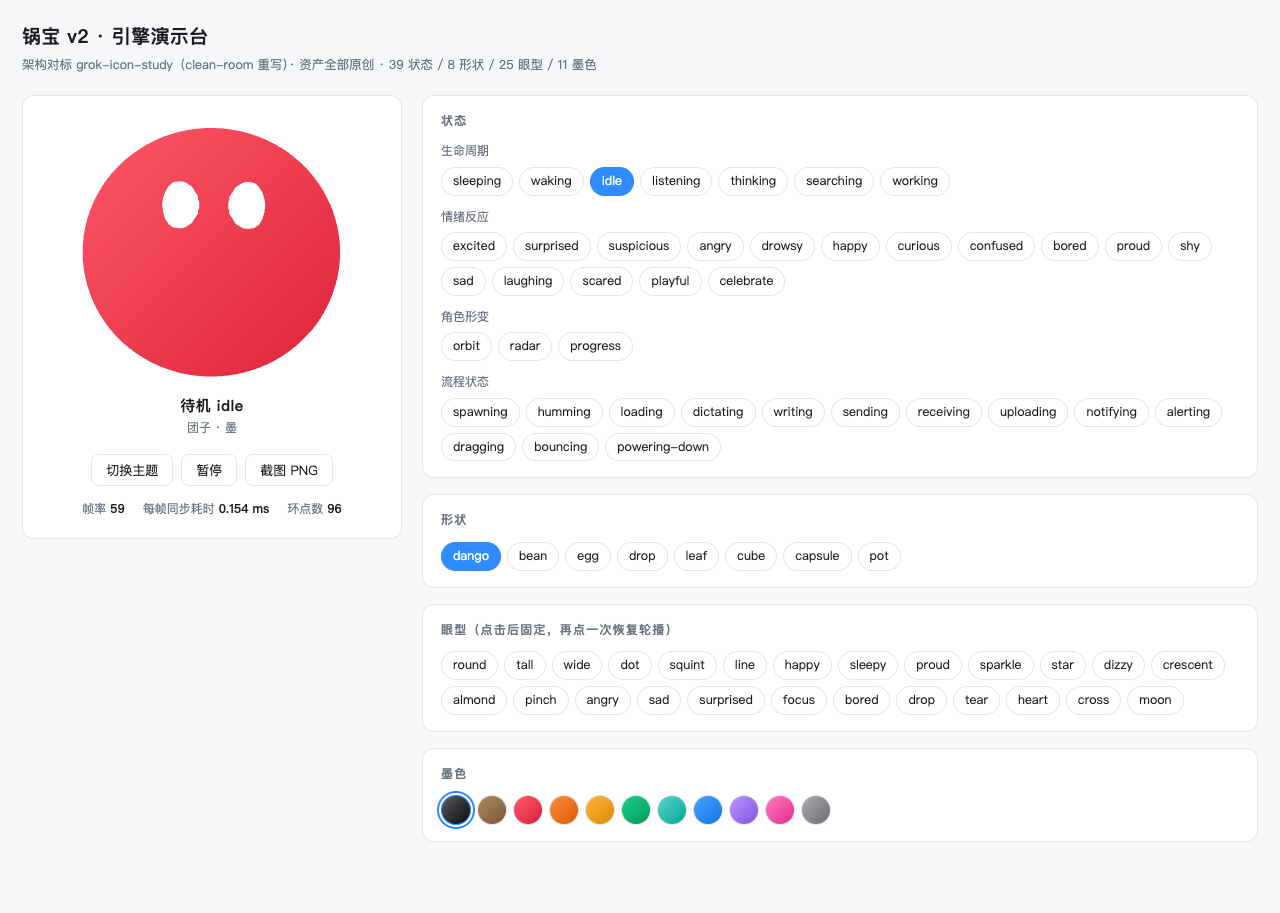
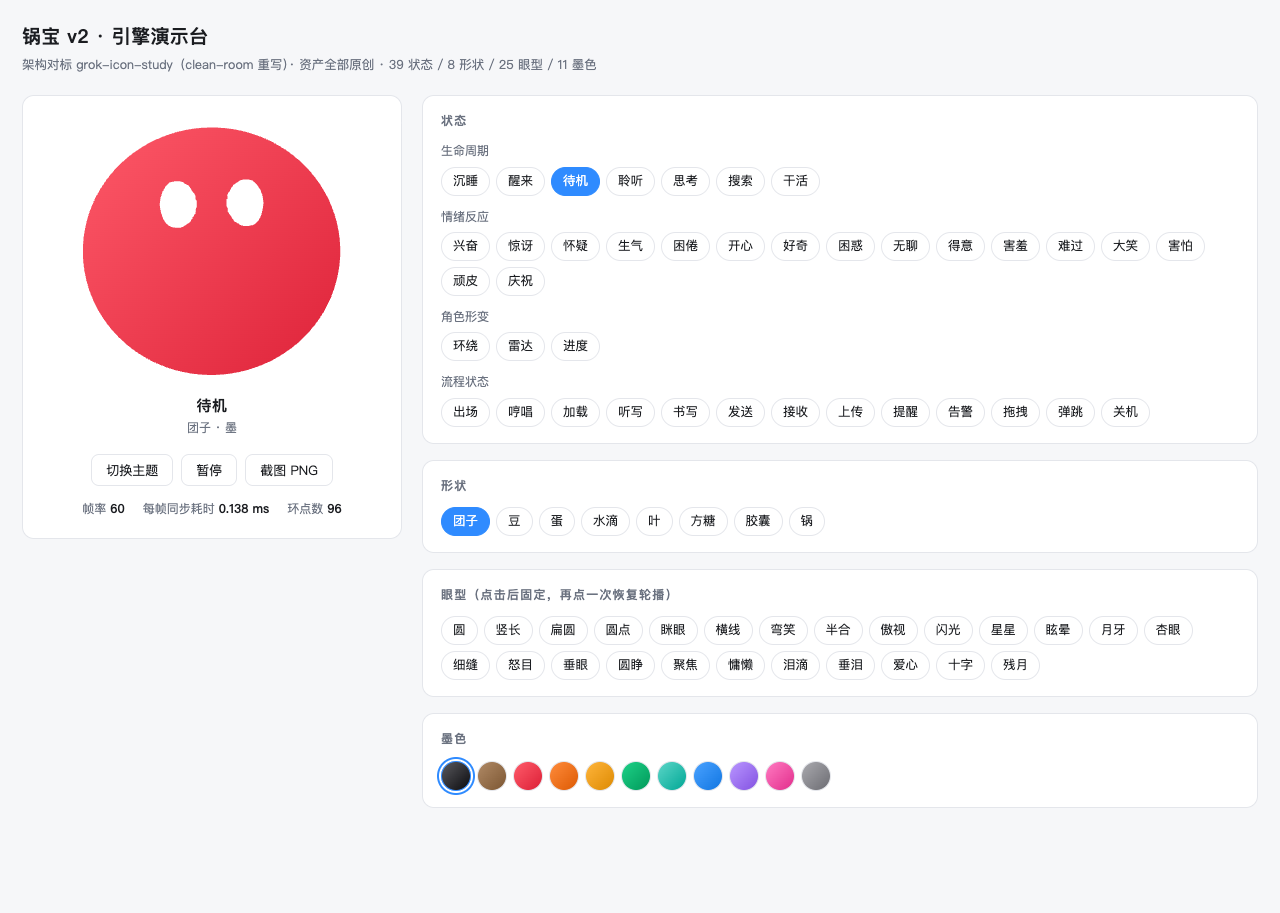
feat(ui): 锅宝挂件按钮文案全中文 + 去掉眼睛抖动
① 按钮英文 → 引擎补中文标签表（83 项，与名称列表一一对应、零重复）
- art.js: SHAPE_LABELS(8) / EYE_LABELS(25)；pose.js: STATE_LABELS(39)
- 从 index.js 导出，mascot.js 兼容入口同步转发
- demo.html / sheet.html 改为查表；only= 同时接受英文 id 与中文名
- 命名区分：眼型 drop=泪滴 vs 形状 drop=水滴；crescent=月牙 vs moon=残月
- 修掉一个真坑：眼型高亮原先比 textContent，改中文后会全灭 → 改用 dataset.id
- 11 个纯色圆点补 aria-label（此前屏幕阅读器读不出来）

② 眼睛抖动 → 删掉 _paint 里的高频「微颤」
- 原代码用 now（毫秒）驱动 sin(now*0.042) 与 sin(now*0.058)，
  周期 ≈150ms/≈108ms（6.7Hz/9.2Hz），振幅 1.4/0.9，左右眼还差一个相位
- 它还被下游放大：纵向抖 → vl → liveSpan → 横向夹取区间跳 → 眼睛整块位移
- 保留视线弹簧与指针跟随（活感来源），实测抖动位移 2.85 → 0

③ verify.mjs 30 → 35 条，新增 5 条回归断言
- 文案全中文（77 个）/ 墨色圆点有中文 aria-label / 接触表标题走标签表
- 抖动检测有效（body 确实在动，防 rAF 节流导致空转通过）
- 眼睛不抖动（方向反转次数 ≤1）
⚠ 抖动断言第一版判据写错：「总位移 < 0.2」实测会抖 —— 同一份代码套件内 dy=0、
  单独跑 dy=0.3，差的是形变弹簧的单调收敛残余。改用方向反转次数（0 vs 8，差一个数量级），
  并做注入对照证明护栏不是恒绿（注回微颤 → 反转 4 次 / 位移 2.85，随后还原并字节比对）

验证：verify.mjs 35/35 · verify-plugin.mjs 37/37（真实 Express 应用）
收尾：端口已释放 · 无头 Chrome 0 · 真实库 checksum 与跑前一致

diff --git a/拼好家内容创作中心/tools/mascot-verify/demo.html b/拼好家内容创作中心/tools/mascot-verify/demo.html
@@ -89,7 +89,7 @@
   <div class="layout" data-page-node-id="MTRuOF9J2udMlTxig6tuVV">
     <div class="stage" data-page-node-id="m7wCLBNABcuGTmRe8NYs9C">
       <div class="stage-inner" id="stage" data-page-node-id="0Bqdo6BJmSmEMCEEK3NYgD"></div>
-      <div class="stage-label" id="label" data-page-node-id="Z2nrGLLp87Sy4nKurqpJmb">待机 idle</div>
+      <div class="stage-label" id="label" data-page-node-id="Z2nrGLLp87Sy4nKurqpJmb">待机</div>
       <div class="stage-meta" id="meta" data-page-node-id="k0wg2PWwGAIUscVjHpF2Cw">团子 · 墨</div>
       <div class="stage-row" data-page-node-id="bnTobCg3j27KRsNvAOFyc2">
         <button class="act" id="btnTheme" data-page-node-id="WZcqNHigUwoLmX15oS47wC">切换主题</button>
@@ -129,10 +129,15 @@
 <script type="module">
 /* 直接引用 public/ 下已提交的引擎 —— 不在这里放第二份副本，
    否则引擎一改、演示台还跑旧代码，两边就漂移了。 */
-import { createMascot, GROUPS, SHAPE_NAMES, EYE_NAMES, INK_NAMES, INK } from "../../public/js/components/mascot/index.js";
+import { createMascot, GROUPS, SHAPE_NAMES, SHAPE_LABELS, EYE_NAMES, EYE_LABELS,
+  STATE_LABELS, INK_NAMES, INK } from "../../public/js/components/mascot/index.js";
 
 const stage = document.getElementById("stage");
 const mascot = createMascot(stage, { state: "idle", shape: "dango", ink: "ink" });
+
+/* 按钮上一律印中文：英文 id 只作为「值」用（setState/setShape 的参数、dataset 里的键），
+   不作为「字」。标签表来自引擎，见 index.js 的导出说明。 */
+const L = (map, id) => map[id] || id;   // 表里万一缺项，退回 id 而不是渲染出 undefined
 
 /* ── 状态按钮 ── */
 const sg = document.getElementById("stateGroups");
@@ -146,13 +151,14 @@ for (const g of GROUPS) {
   for (const s of g.states) {
     const b = document.createElement("button");
     b.className = "chip";
-    b.textContent = s;
+    b.dataset.id = s;                      // 真实值放 dataset，文案放 textContent
+    b.textContent = L(STATE_LABELS, s);
     b.setAttribute("aria-pressed", String(s === "idle"));
     b.onclick = () => {
       mascot.setState(s);
       for (const o of sg.querySelectorAll(".chip")) o.setAttribute("aria-pressed", "false");
       b.setAttribute("aria-pressed", "true");
-      document.getElementById("label").textContent = s;
+      document.getElementById("label").textContent = L(STATE_LABELS, s);
     };
     box.appendChild(b);
   }
@@ -164,7 +170,8 @@ const sh = document.getElementById("shapes");
 for (const n of SHAPE_NAMES) {
   const b = document.createElement("button");
   b.className = "chip";
-  b.textContent = n;
+  b.dataset.id = n;
+  b.textContent = L(SHAPE_LABELS, n);
   b.setAttribute("aria-pressed", String(n === "dango"));
   b.onclick = () => {
     mascot.setShape(n);
@@ -181,7 +188,8 @@ let eyeOn = null;
 for (const n of EYE_NAMES) {
   const b = document.createElement("button");
   b.className = "chip";
-  b.textContent = n;
+  b.dataset.id = n;
+  b.textContent = L(EYE_LABELS, n);
   b.onclick = () => {
     if (eyeOn === n) {
       eyeOn = null;
@@ -190,7 +198,11 @@ for (const n of EYE_NAMES) {
       eyeOn = n;
       mascot.setEye(n);
     }
-    for (const o of ey.querySelectorAll(".chip")) o.setAttribute("aria-pressed", String(o.textContent === eyeOn));
+    /* ⚠ 高亮比对必须走 dataset.id，不能拿 textContent 比 ——
+       文案改成中文后，textContent 与 id 不再相等，比了会全灭。 */
+    for (const o of ey.querySelectorAll(".chip")) {
+      o.setAttribute("aria-pressed", String(o.dataset.id === eyeOn));
+    }
   };
   ey.appendChild(b);
 }
@@ -200,7 +212,9 @@ const ik = document.getElementById("inks");
 for (const n of INK_NAMES) {
   const b = document.createElement("button");
   b.className = "chip swatch";
+  b.dataset.id = n;
   b.title = INK[n].label;
+  b.setAttribute("aria-label", `墨色：${INK[n].label}`);   // 纯色圆点没有文字，靠 aria-label 可读
   b.style.background = `linear-gradient(135deg, ${INK[n].lightFrom}, ${INK[n].lightTo})`;
   b.setAttribute("aria-pressed", String(n === "ink"));
   b.onclick = () => {
@@ -213,7 +227,8 @@ for (const n of INK_NAMES) {
 }
 
 function updateMeta() {
-  document.getElementById("meta").textContent = `${mascot.shape} · ${mascot.ink}`;
+  document.getElementById("meta").textContent =
+    `${L(SHAPE_LABELS, mascot.shape)} · ${INK[mascot.ink]?.label || mascot.ink}`;
 }
 
 /* ── 工具按钮 ── */

diff --git a/拼好家内容创作中心/tools/mascot-verify/sheet.html b/拼好家内容创作中心/tools/mascot-verify/sheet.html
@@ -26,15 +26,17 @@
 <div id="root"></div>
 <script type="module">
 /* 直接引用 public/ 下已提交的引擎 —— 不在这里放第二份副本，避免两边漂移。 */
-import { createMascot, GROUPS, SHAPE_NAMES, EYE_NAMES, INK_NAMES, INK } from "../../public/js/components/mascot/index.js";
+import { createMascot, GROUPS, SHAPE_NAMES, SHAPE_LABELS, EYE_NAMES, EYE_LABELS,
+  STATE_LABELS, INK_NAMES, INK } from "../../public/js/components/mascot/index.js";
 
 /* ?cell=200&only=excited,playful   → 放大单看某几个状态（排查视觉问题用）
    only 对状态 / 形状 / 眼型 三组都生效：命中的那几组才渲染，组内只留命中的项。
-   例：?cell=300&only=pot,capsule   → 放大对比锅和胶囊（排查「两个形状看起来一样」用） */
+   例：?cell=300&only=pot,capsule   → 放大对比锅和胶囊（排查「两个形状看起来一样」用）
+   ⚠ only 同时接受**英文 id 与中文名**：卡片上现在印中文，用户会照着中文抄。 */
 const q = new URLSearchParams(location.search);
 if (q.get("cell")) document.documentElement.style.setProperty("--cell", q.get("cell") + "px");
 const ONLY = (q.get("only") || "").split(",").map((s) => s.trim()).filter(Boolean);
-const hit = (n) => !ONLY.length || ONLY.includes(n);
+const hit = (id, label) => !ONLY.length || ONLY.includes(id) || ONLY.includes(label);
 
 const root = document.getElementById("root");
 const instances = [];
@@ -63,22 +65,22 @@ function cell(grid, cap) {
 
 /* 全部 39 个状态 */
 for (const g of GROUPS) {
-  const list = g.states.filter(hit);
+  const list = g.states.filter((s) => hit(s, STATE_LABELS[s]));
   if (!list.length) continue;
   const grid = section("状态 · " + g.label);
   for (const s of list) {
-    const box = cell(grid, s);
+    const box = cell(grid, STATE_LABELS[s] || s);
     instances.push(createMascot(box, { state: s, shape: "dango", ink: "ink" }));
   }
 }
 
 /* 8 个形状（都用 idle 态） */
 {
-  const list = SHAPE_NAMES.filter(hit);
+  const list = SHAPE_NAMES.filter((n) => hit(n, SHAPE_LABELS[n]));
   if (list.length) {
     const grid = section("形状");
     for (const n of list) {
-      const box = cell(grid, n);
+      const box = cell(grid, SHAPE_LABELS[n] || n);
       instances.push(createMascot(box, { state: "idle", shape: n, ink: "ink" }));
     }
   }
@@ -86,11 +88,11 @@ for (const g of GROUPS) {
 
 /* 25 个眼型（固定住） */
 {
-  const list = EYE_NAMES.filter(hit);
+  const list = EYE_NAMES.filter((n) => hit(n, EYE_LABELS[n]));
   if (list.length) {
     const grid = section("眼型");
     for (const n of list) {
-      const box = cell(grid, n);
+      const box = cell(grid, EYE_LABELS[n] || n);
       instances.push(createMascot(box, { state: "idle", shape: "dango", ink: "ink", eye: n }));
     }
   }
@@ -98,7 +100,7 @@ for (const g of GROUPS) {
 
 /* 11 个墨色 */
 {
-  const list = INK_NAMES.filter(hit);
+  const list = INK_NAMES.filter((n) => hit(n, INK[n].label));
   if (list.length) {
     const grid = section("墨色");
     for (const n of list) {

diff --git a/拼好家内容创作中心/public/js/components/mascot/art.js b/拼好家内容创作中心/public/js/components/mascot/art.js
@@ -174,6 +174,12 @@ for (const [name, def] of Object.entries(SHAPE_DEF)) {
 
 export const SHAPE_NAMES = Object.keys(SHAPES);
 
+/* 形状中文名 —— 与 SHAPE_NAMES 一一对应（界面按钮文案的单一事实来源） */
+export const SHAPE_LABELS = {
+  dango: "团子", bean: "豆", egg: "蛋", drop: "水滴",
+  leaf: "叶", cube: "方糖", capsule: "胶囊", pot: "锅",
+};
+
 /* 形状显示体量补偿：环实际只占 229/259，乘 VIEW_SCALE 才刚好填满 viewBox */
 export const VIEW = { minX: -15, minY: -15, width: 259, height: 259 };
 export const VIEW_SCALE = VIEW.width / (R_BASE * 2);
@@ -258,6 +264,18 @@ for (const [name, fn] of Object.entries(DENSE_DEF)) {
 }
 
 export const EYE_NAMES = Object.keys(EYE_UNITS);
+
+/* 眼型中文名 —— 与 EYE_NAMES 一一对应（界面按钮文案的单一事实来源）。
+   注意两处刻意的区分：
+   · 眼型 drop 取「泪滴」、形状 drop 取「水滴」，避免接触表两个分区里同名不同物；
+   · crescent（大缺口月牙）取「月牙」、moon（稠密轮廓残月）取「残月」，两者形状相近但不同源。 */
+export const EYE_LABELS = {
+  round: "圆", tall: "竖长", wide: "扁圆", dot: "圆点", squint: "眯眼",
+  line: "横线", happy: "弯笑", sleepy: "半合", proud: "傲视", sparkle: "闪光",
+  star: "星星", dizzy: "眩晕", crescent: "月牙", almond: "杏眼", pinch: "细缝",
+  angry: "怒目", sad: "垂眼", surprised: "圆睁", focus: "聚焦", bored: "慵懒",
+  drop: "泪滴", tear: "垂泪", heart: "爱心", cross: "十字", moon: "残月",
+};
 
 /* 把单位眼型按自己的倍率放到「左眼」的画布位置；右眼由镜像得到 */
 export function eyePolys(name) {

diff --git a/拼好家内容创作中心/public/js/components/mascot/pose.js b/拼好家内容创作中心/public/js/components/mascot/pose.js
@@ -20,6 +20,26 @@ export const GROUPS = [
 
 export const ALL_STATES = GROUPS.flatMap((g) => g.states);
 
+/* 状态中文名 —— 给界面用（按钮 / 标签）。
+   与 ALL_STATES 一一对应；缺一个，界面上就会出现英文 id。
+   ⚠ 这是「按钮文案」的单一事实来源：演示台、接触表、任何设置面板都从这里取，
+   不要各自硬编码一份，否则改一处漏一处。
+   注：挂件气泡里的说法（mascot-dock.js 的 STATE_LINE）是句子级文案，
+   如「在写今天的内容计划」，与这里的短标签不同，故两份并存、不合并。 */
+export const STATE_LABELS = {
+  sleeping: "沉睡", waking: "醒来", idle: "待机", listening: "聆听",
+  thinking: "思考", searching: "搜索", working: "干活",
+  excited: "兴奋", surprised: "惊讶", suspicious: "怀疑", angry: "生气",
+  drowsy: "困倦", happy: "开心", curious: "好奇", confused: "困惑",
+  bored: "无聊", proud: "得意", shy: "害羞", sad: "难过",
+  laughing: "大笑", scared: "害怕", playful: "顽皮", celebrate: "庆祝",
+  orbit: "环绕", radar: "雷达", progress: "进度",
+  spawning: "出场", humming: "哼唱", loading: "加载", dictating: "听写",
+  writing: "书写", sending: "发送", receiving: "接收", uploading: "上传",
+  notifying: "提醒", alerting: "告警", dragging: "拖拽", bouncing: "弹跳",
+  "powering-down": "关机",
+};
+
 /* ─────────────── 弹簧参数 [frequency, dampingRatio] ─────────────── */
 
 export const SPRINGS = {

diff --git a/拼好家内容创作中心/public/js/components/mascot/character.js b/拼好家内容创作中心/public/js/components/mascot/character.js
@@ -740,9 +740,18 @@ export class Character {
         fade = Dke(clamp(io0 / 0.5, 0, 1));
       }
 
-      /* 微颤 + 视线 + 指针 */
-      let jx = (1 - 0) * (Math.sin(now * 0.042 + i) * 1.4 + Math.sin(now * 0.001 + i * 2) * 0.5);
-      let jy = Math.sin(now * 0.058 + i) * 0.9;
+      /* 视线 + 指针（不再叠加「微颤」）
+         这里原来还有一层高频噪声，读起来就是「眼睛在抖」：
+           Math.sin(now * 0.042) → 周期 ≈150ms（≈6.7Hz），振幅 1.4
+           Math.sin(now * 0.058) → 周期 ≈108ms（≈9.2Hz），振幅 0.9
+         两者都以**毫秒**为自变量，所以频率落在最刺眼的 6–9Hz 区间；
+         左右眼还差一个相位（+i），视觉上是两只眼各抖各的。
+         更糟的是它经 vl → liveSpan → 横向夹取边界被放大成跳动：
+         纵向抖 0.9 会让 vl 变化，夹取区间 lo/hi 随之跳，眼睛就整块位移。
+         角色的「活感」由视线弹簧（gazeX/gazeY，2–8s 换一次目标，弹簧平滑）
+         和指针跟随提供，不需要这层噪声。 */
+      let jx = 0;
+      let jy = 0;
       const zl = Rn(0.16);
       this.pointer.x += (this.pointer.tx - this.pointer.x) * zl;
       this.pointer.y += (this.pointer.ty - this.pointer.y) * zl;

diff --git a/拼好家内容创作中心/public/js/components/mascot/index.js b/拼好家内容创作中心/public/js/components/mascot/index.js
@@ -5,14 +5,19 @@
  *   options  { state, shape, ink, eye, followPointer, onSay }
  *
  * 控制器方法：setState / setShape / setInk / setEye / unpinEye / say / pause / destroy
- * 另有 GROUPS / SHAPE_NAMES / EYE_NAMES / INK_NAMES 供 UI 构建选择器。
+ * 另有 GROUPS / SHAPE_NAMES / EYE_NAMES / INK_NAMES 供 UI 构建选择器，
+ * 以及对应的中文标签表 STATE_LABELS / SHAPE_LABELS / EYE_LABELS（INK 的中文名在 INK[n].label）。
+ * **界面按钮一律取标签表，不要把英文 id 直接印在按钮上。**
  */
 
 import { Character } from "./character.js";
-import { GROUPS, ALL_STATES } from "./pose.js";
-import { SHAPE_NAMES, EYE_NAMES, INK_NAMES, INK } from "./art.js";
+import { GROUPS, ALL_STATES, STATE_LABELS } from "./pose.js";
+import { SHAPE_NAMES, SHAPE_LABELS, EYE_NAMES, EYE_LABELS, INK_NAMES, INK } from "./art.js";
 
-export { GROUPS, ALL_STATES, SHAPE_NAMES, EYE_NAMES, INK_NAMES, INK };
+export {
+  GROUPS, ALL_STATES, STATE_LABELS,
+  SHAPE_NAMES, SHAPE_LABELS, EYE_NAMES, EYE_LABELS, INK_NAMES, INK,
+};
 
 export const VERSION = "2.0.0";
 

diff --git a/拼好家内容创作中心/public/js/components/mascot.js b/拼好家内容创作中心/public/js/components/mascot.js
@@ -21,8 +21,11 @@ export {
   VERSION,
   GROUPS,
   ALL_STATES,
+  STATE_LABELS,
   SHAPE_NAMES,
+  SHAPE_LABELS,
   EYE_NAMES,
+  EYE_LABELS,
   INK_NAMES,
   INK,
 } from "./mascot/index.js";

diff --git a/docs/AI-COLLAB.md b/docs/AI-COLLAB.md
@@ -46,6 +46,76 @@ B 建分支 → 改前端 → 自查 → 更新日志 → push
 -->
 
 ---
+### 2026-09-21 19:25 · 机器B · 挂件：按钮文案全中文 + 去掉眼睛抖动
+
+Alex 报了两个问题：**「按钮都换成中文的，眼睛不要抖动」**。两个都定位到根因，都补了回归断言。
+
+**① 按钮英文 —— 引擎缺中文标签表**
+
+选择器按钮的 `textContent` 直接印了状态/形状/眼型的**英文 id**（`dango` / `powering-down` /
+`crescent` …），演示台整页按钮全英文；接触表的卡片标题同样。
+
+- 新增三张标签表（**按钮文案的单一事实来源**，共 83 项，与名称列表一一对应、零重复）：
+  - `art.js` → `SHAPE_LABELS`（8）/ `EYE_LABELS`（25）
+  - `pose.js` → `STATE_LABELS`（39）
+  - 墨色本来就有 `INK[n].label`（11），保持原样
+  - 三者都从 `index.js` 导出，`mascot.js` 兼容入口同步转发
+- `demo.html` / `sheet.html` 改为查表；`only=` 查询参数**同时接受英文 id 与中文名**（卡片上现在印中文，用户会照中文抄）。
+- ⚠ **两个刻意的命名区分**（否则接触表会出现同名不同物）：
+  眼型 `drop`＝「泪滴」而形状 `drop`＝「水滴」；`crescent`＝「月牙」而 `moon`＝「残月」。
+- ⚠ **踩到一个真坑**：眼型按钮的高亮原先靠 `o.textContent === eyeOn` 比对，
+  文案一改中文就和 id 不再相等 → **高亮会全灭**。已改为 `o.dataset.id`，真实值一律放 dataset。
+- 顺带给 11 个纯色圆点补了 `aria-label`（圆点没有文字，此前屏幕阅读器读不出来）。
+
+**② 眼睛抖动 —— `_paint` 里的「微颤」以毫秒为自变量**
+
+```js
+// 删掉的这两行（now 的单位是毫秒，所以频率高得离谱）
+let jx = (Math.sin(now * 0.042 + i) * 1.4 + Math.sin(now * 0.001 + i * 2) * 0.5);
+let jy = Math.sin(now * 0.058 + i) * 0.9;
+```
+
+- 周期 ≈150ms（6.7Hz）与 ≈108ms（9.2Hz），振幅 1.4 / 0.9，**左右眼还差一个相位**（`+i`）——
+  读起来就是两只眼各抖各的。
+- 更糟的是它**被下游放大**：纵向抖 0.9 → `vl` 变 → `liveSpan` 变 → 横向夹取区间 `lo/hi` 跳
+  → 眼睛整块位移。
+- 修法：微颤归零，**保留**视线弹簧（`gazeX/gazeY`，2–8s 换一次目标）与指针跟随 ——
+  角色的「活感」由它们提供，不需要这层高频噪声。实测抖动位移 2.85 → 0。
+
+**③ 新增 5 条回归断言（`verify.mjs` 30 → 35）**
+
+| 断言 | 判据 |
+|---|---|
+| 选择器/标签文案全部为中文 | 每个可点选项的文字里至少一个汉字（查了 77 个） |
+| 墨色圆点有中文 `aria-label` | 11 个圆点 |
+| 接触表标题走中文标签表 | 静态查（省一次起浏览器），抓「改了一个文件忘了另一个」 |
+| 抖动检测**有效** | 采样期内 body 确实在动 |
+| 眼睛**不抖动** | 方向反转次数 ≤1 |
+
+⚠ **抖动这条断言的第一版判据是错的，值得记下来**：
+一开始写的是「总位移 < 0.2」。结果**同一份代码在完整套件里测得 dy=0、单独跑测得 dy=0.3** ——
+差的是眼型形变弹簧最后 0.1% 的**单调收敛残余**，不是抖动。阈值卡在 0.2 就是掷骰子（假红）。
+→ 改用**方向反转次数**：单调收敛 0 次 vs 6.7Hz 微颤在 1.2s 内约 8 次，差一个数量级。
+→ 并做了**注入对照**证明护栏不是恒绿：把微颤注回 `character.js`，探针从「反转 0 次」变成
+  「反转 4 次 / 位移 2.85」，随后 `cp` 还原并 `shasum` 字节比对确认复原。
+→ 同理，「抖动检测有效」这条是必需的：rAF 被节流时眼睛本来就不刷新，
+  **只查眼睛会恒绿空转**，护栏看着绿其实什么都没测。
+
+**④ 验证结果**（位置/行为变了就得重跑，这是纪律）
+
+- `verify.mjs` **35/35**（`file://`，不用起服务）
+- `verify-plugin.mjs` **37/37**，打在**真实 Express 应用**上
+  （`DB_PATH=/tmp/workbench-verify.db PORT=4174`，启动约 14s）
+- 收尾复验：端口 4174 已释放 · `server.js` 0 个 · 无头 Chrome 0 个 ·
+  **真实库 `data/workbench.db` checksum 与跑前完全一致**
+- ⚠ 无头 Chrome 在沙箱里那批 `file-write-unlink`（RLZ / GoogleUpdater 写 `~/Library`）
+  是 **Chrome 自己的后台行为**，不是断言失败；它会让后台任务的退出码看起来是 failed，
+  **以脚本自己打印的「通过 N / 失败 N」为准**。
+
+**下一步（供对侧接续）**：标签表已就位，若以后加状态/形状/眼型，**必须同时补对应标签**，
+否则界面上会漏出英文 id —— 目前只有 `verify.mjs` 的中文断言能兜住这一条。
+
+---
 ### 2026-09-21 19:00 · 机器B · 挂件验收工具链入库（`tools/mascot-verify/`）
 
 - **动机**：引擎与 30+37 条断言此前只存在于工作区沙盒，**没有任何版本控制**；
